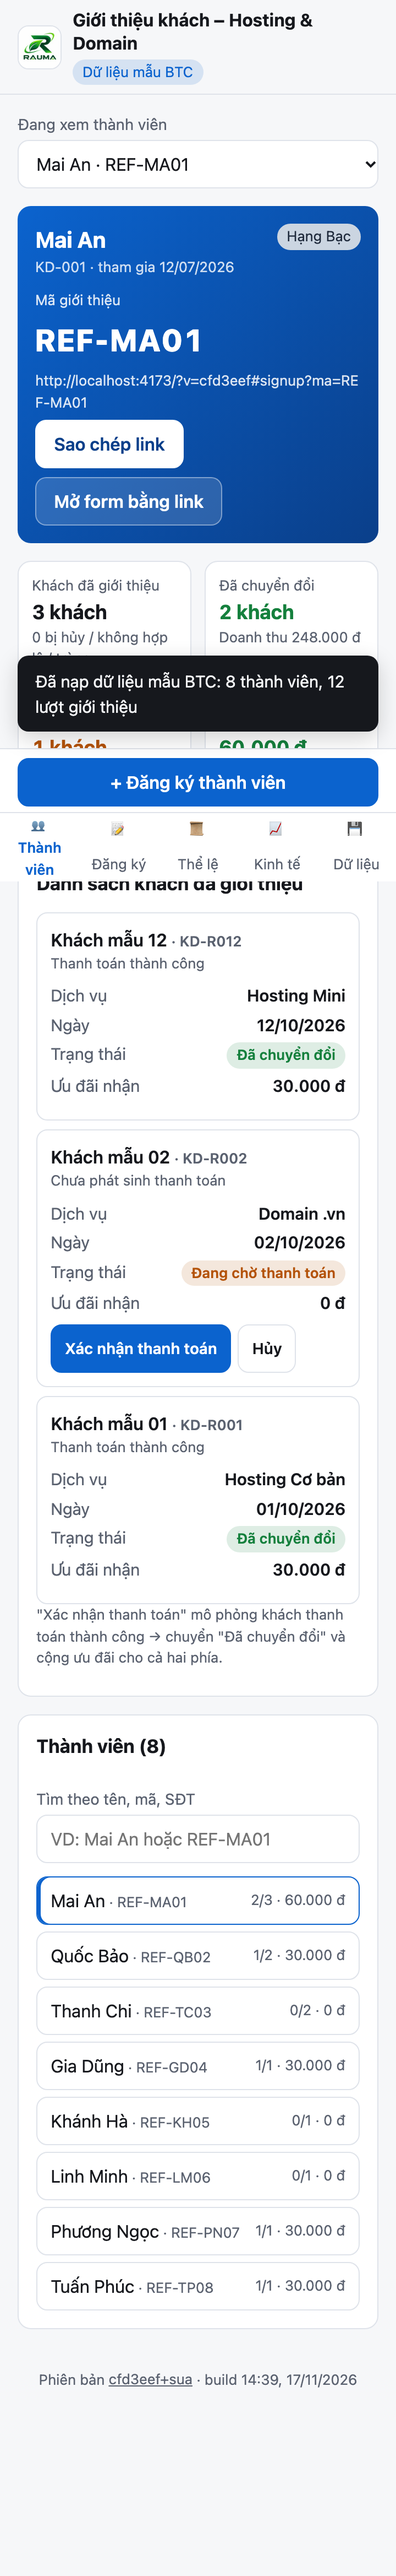
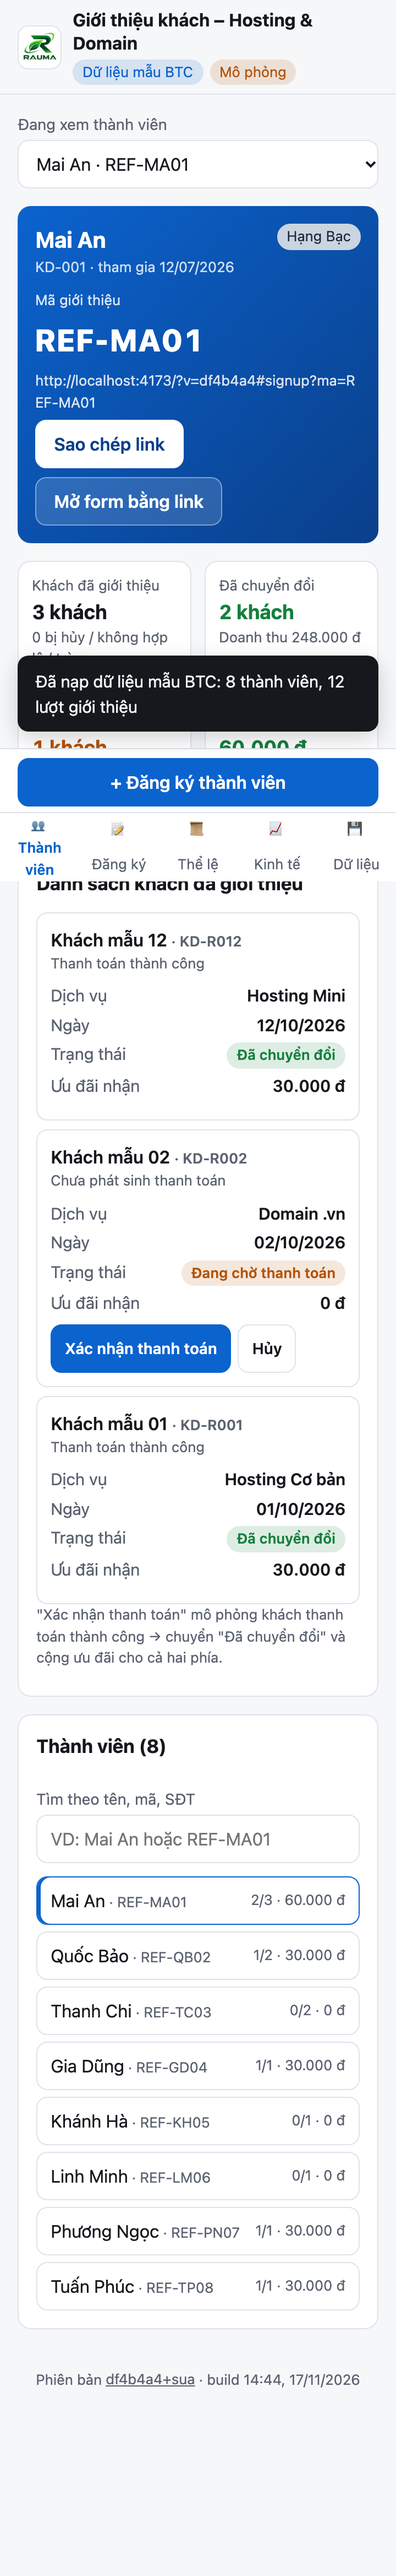
fix: nhãn Mô phỏng hiện cả trên điện thoại

Changed region(s): [[0.5194, 0.0, 0.7333, 0.0312]]

diff --git a/src/App.tsx b/src/App.tsx
@@ -80,7 +80,8 @@ function Inner() {
       <>
         <span className={`badge ${s.kind === 'sample' ? 'src-sample' : 'src-real'}`}>{text}</span>
         {s.edited && <span className="badge changed">đã chỉnh</span>}
-        <span className="desktop-only">· Mô phỏng, lưu trên máy này</span>
+        <span className="badge sim">Mô phỏng</span>
+        <span className="desktop-only">· Dữ liệu lưu trên máy này</span>
       </>
     )
   }, [data])

diff --git a/src/index.css b/src/index.css
@@ -428,3 +428,4 @@ button.scen { display: grid; gap: 2px; text-align: left; font: inherit; color: v
   .app-header h1 { font-size: 16px; line-height: 1.3; }
   .brand-logo { width: 40px; height: 40px; }
 }
+.badge.sim { background: color-mix(in srgb, var(--warn) 14%, transparent); color: var(--warn); border-color: transparent; }

diff --git a/docs/TIMELINE.md b/docs/TIMELINE.md
@@ -15,3 +15,4 @@
 14:35 — thêm logo RAUMA (đầu trang + favicon + icon iPhone), đầu trang di động gọn 1 dòng
 14:38 — sửa 3 lỗi: link chia sẻ kèm ?v=<commit>, SĐT 10 số bắt đầu bằng 0, giá ghi /tháng /năm + cột 'Giá đơn đầu tiên'
 14:40 — đổi nút 'Xác nhận TT' → 'Xác nhận thanh toán'
+14:44 — nhãn 'Mô phỏng' hiện trên mọi thiết bị (quy định: số liệu giả lập phải nhận biết rõ)
